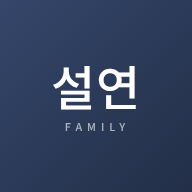
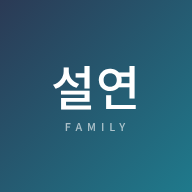
아이콘 배경을 네이비→청록 그라데이션으로 (앱·스플래시·웹), 캐시 v42
Claude-Session: https://claude.ai/code/session_01RXHvG4cqbw7aWsZp6WYgDE

diff --git a/sw.js b/sw.js
@@ -1,6 +1,6 @@
 // 설연 Family — Service Worker v7
 // v6: 앱 파일을 폰에 저장 → 인터넷이 없어도 앱이 열림 (문장집·지난 데이터 사용)
-const CACHE_NAME = 'seolyeon-v41';
+const CACHE_NAME = 'seolyeon-v42';
 const BASE = '/sulyeon-family-/';
 // 앱 파일 (폴더 구조 변경 시 함께 수정)
 const APP_FILES = [
